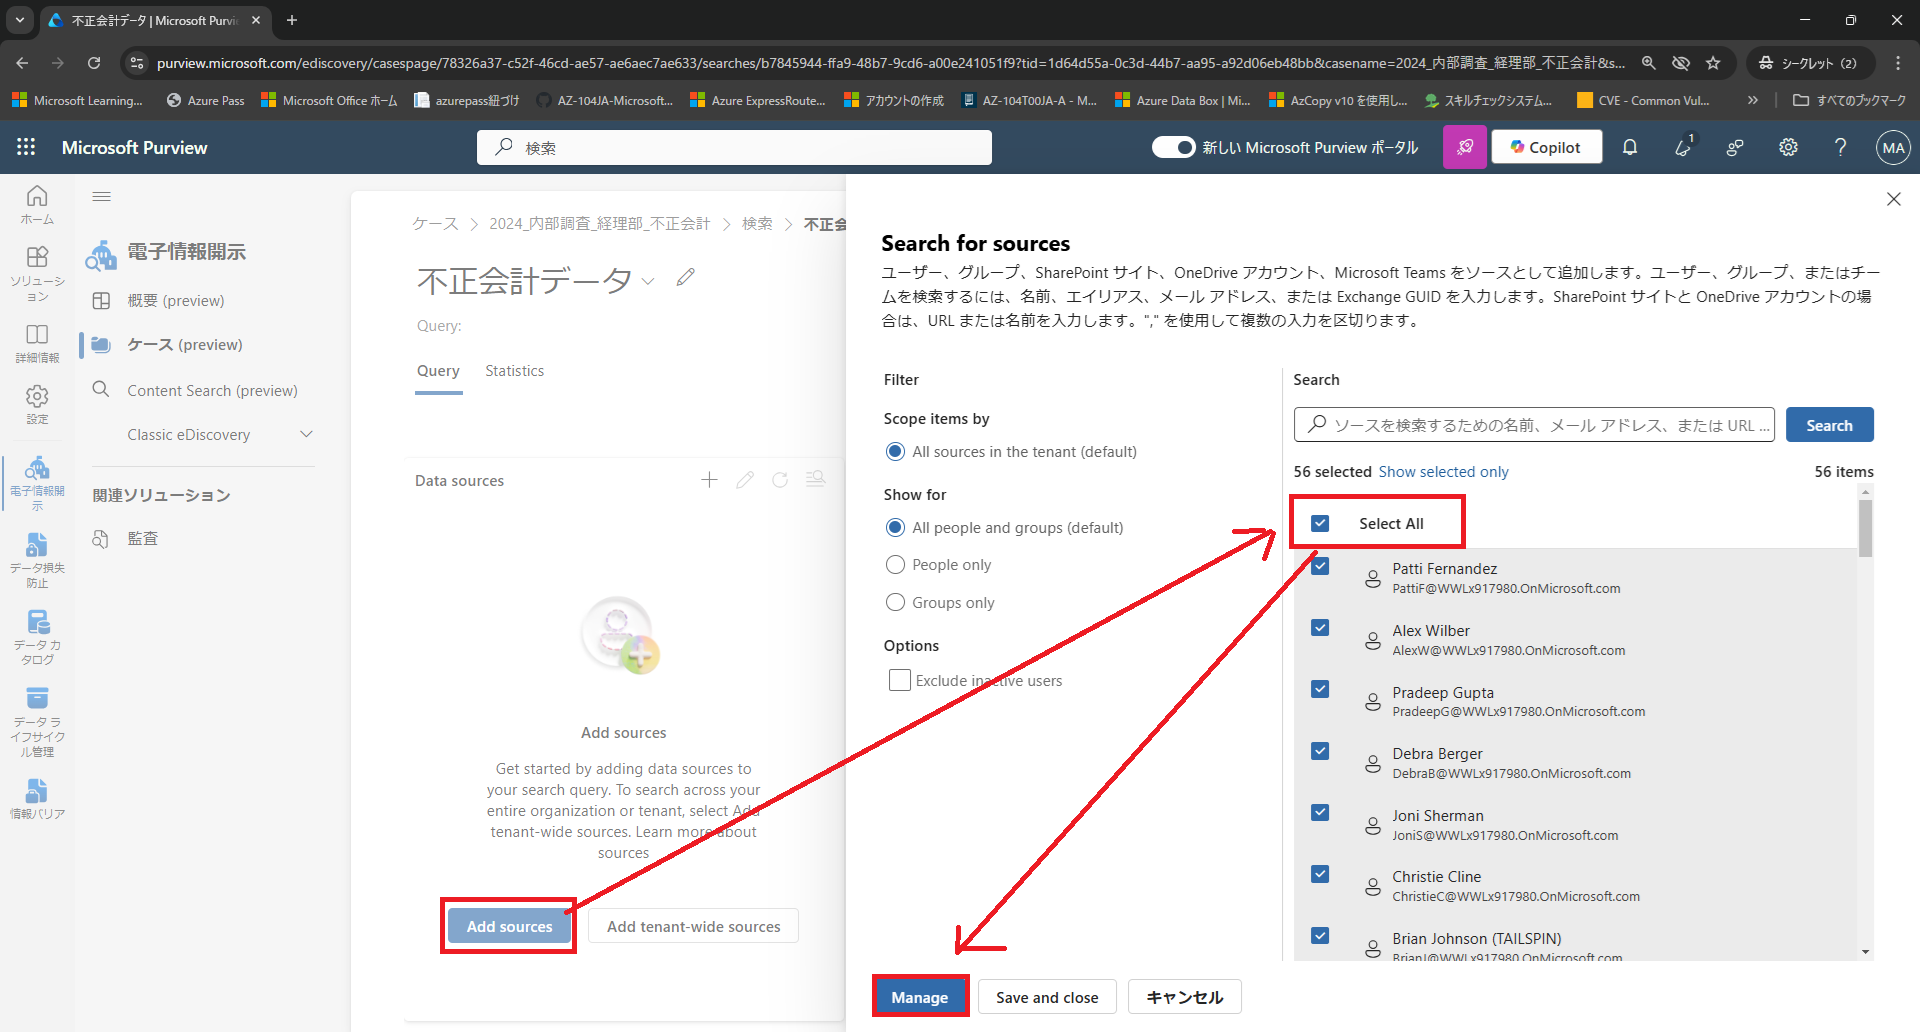
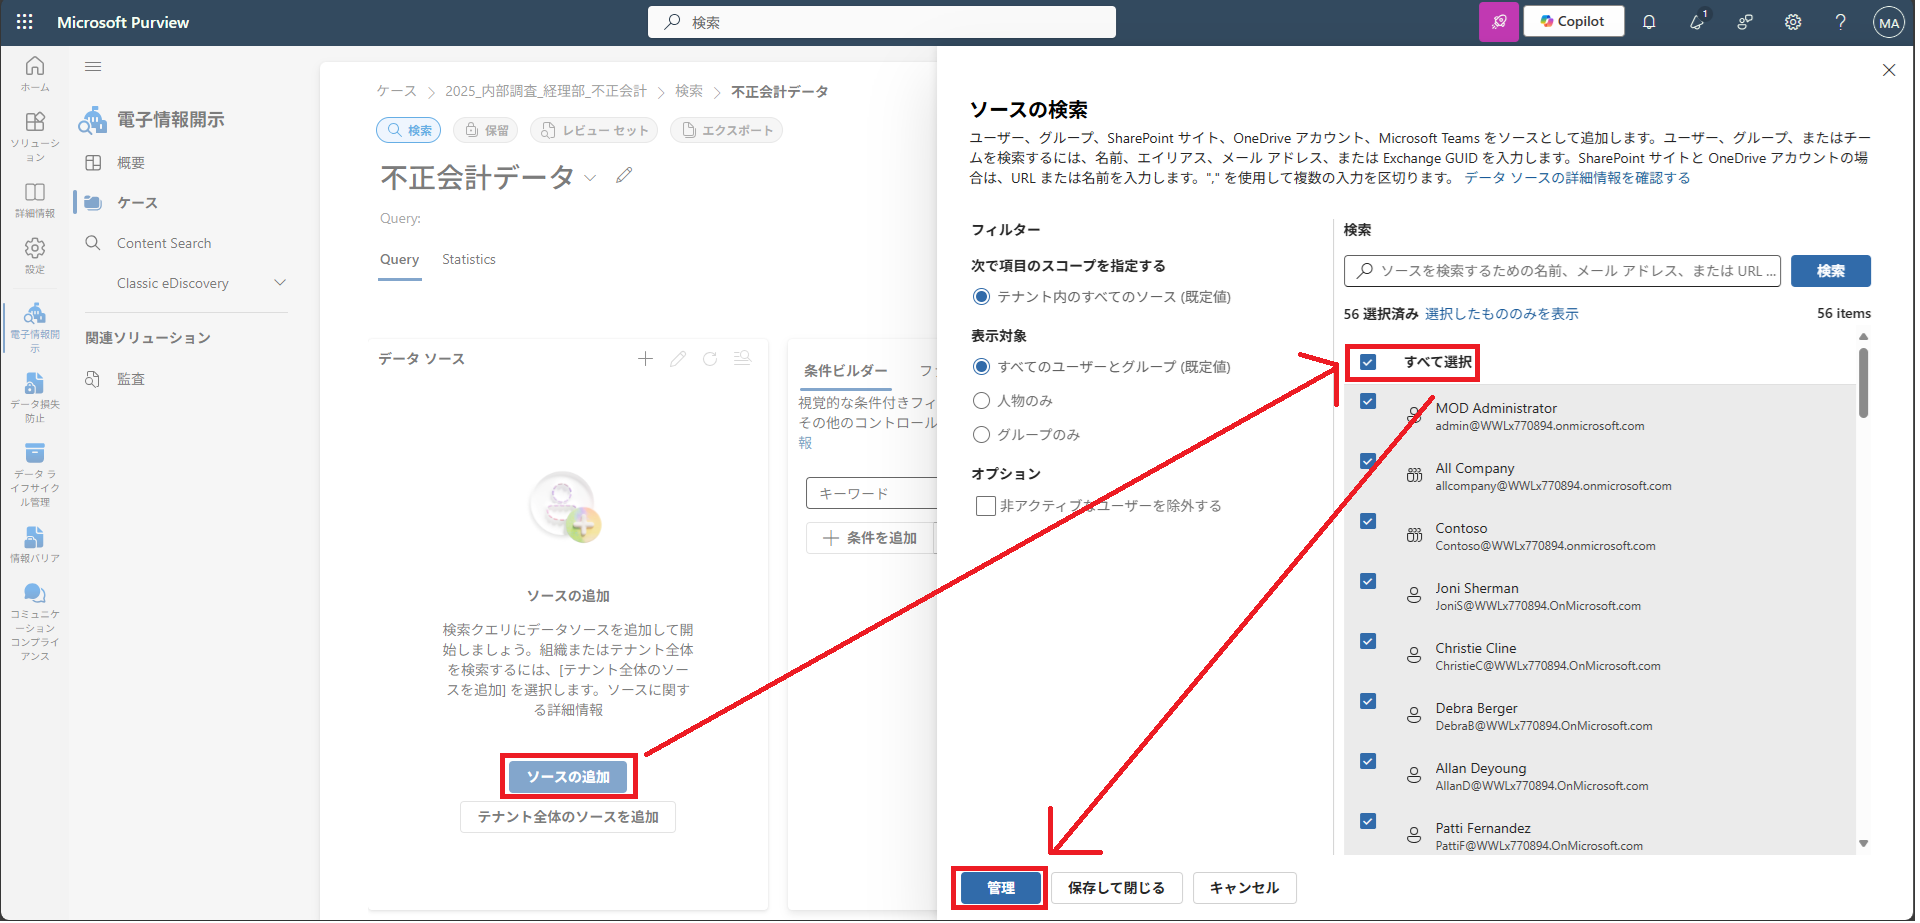
update

diff --git a/LabManual/Lab03_Microsoft_Purviewを探索する.md b/LabManual/Lab03_Microsoft_Purviewを探索する.md
@@ -276,7 +276,7 @@
 
 4. [検索の作成]をクリックし、さらに検索名には[不正会計データ]と入力し、[作成]をクリックします。
 
-5. [不正会計データ]では[Add sources]をクリックし、[Select All]をクリックし、[Manage]をクリックします。
+5. [不正会計データ]では[ソースの追加]をクリックし、[すべて選択]をクリックし、[管理]をクリックします。
 
    ![](./media/lab4-23.png)
 
